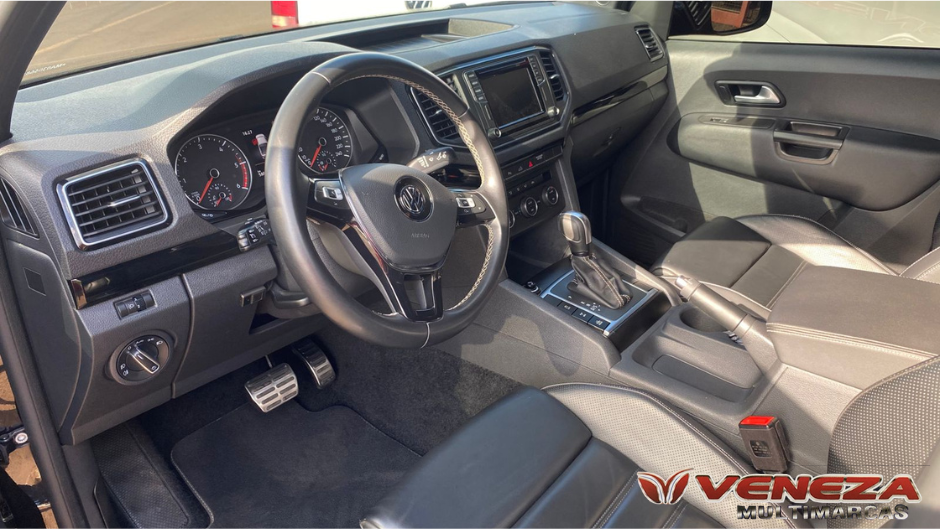
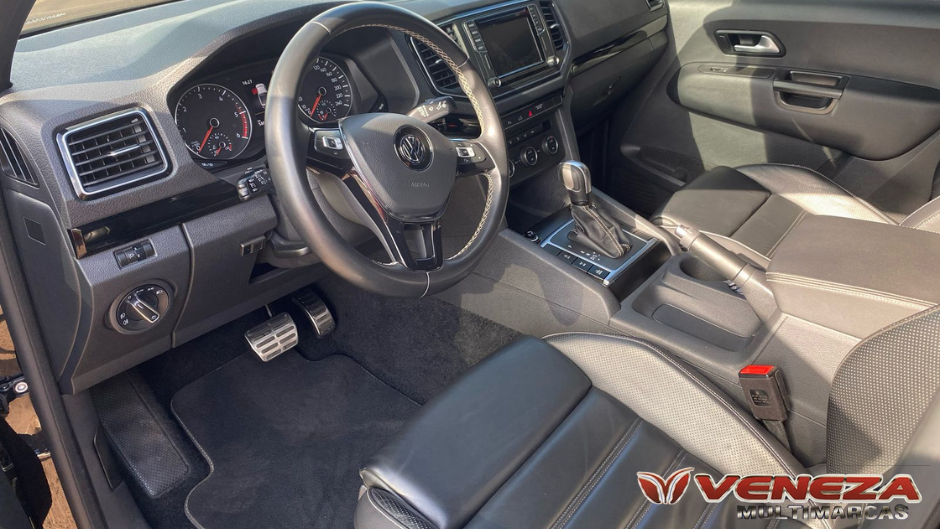
ngga

diff --git a/index.html b/index.html
@@ -24,14 +24,87 @@
 
   </div>
     <div class="container">
-        <a href="Jeep Renegade.html">
-        <div class="product-card">   
-            <img src="carros/Jeep renegade Ed.png" alt="Jeep" class="product-img">
-            <h2 class="product-title">Renegade</h2>
-            <h2 class="Ano">2016</h2>
-            <p class="product-price">Preço: R$70.000,00</p>
-        </div>
-        </a>
+
+
+
+
+
+
+
+
+
+
+
+
+
+
+
+
+
+
+
+
+
+
+
+
+
+
+
+
+
+
+        
+        <a href="Amarok Extreme.html">
+            <div class="product-card">
+                <img src="carros/Amarok Extreme Ed.png" alt="Jetta" class="product-img">
+                <h2 class="product-title">Amarok</h2>
+                <h2 class="Ano"></h2>
+                <p class="product-price">Preço: R$.000,00</p>
+                
+            </div>
+            </a><a href="Compass.html">
+                <div class="product-card">
+                    <img src="carros/Jeep Compass Ed.png" alt="Jetta" class="product-img">
+                    <h2 class="product-title">Compass</h2>
+                    <h2 class="Ano"></h2>
+                    <p class="product-price">Preço: R$.000,00</p>
+                    
+                </div>
+                </a>
+
+
+
+
+
+
+
+
+
+
+
+
+
+
+
+
+
+
+
+
+
+
+
+
+
+
+
+
+
+
+
+
+
         <a href="Jetta.html">
         <div class="product-card">
             <img src="carros/Jetta Ed.png" alt="Jetta" class="product-img">
@@ -205,13 +278,6 @@
             
         </div>
     </a>
-
-
-
-
-
-
-
     <a href="PalioC.html">
         <div class="product-card">
             <img src="carros/Palio P Ed.png" alt="Palio Cinza" class="product-img">
@@ -266,25 +332,6 @@
             
         </div>
     </a>
-
-
-
-
-
-
-
-
-
-
-
-
-
-
-
-
-
-
-
     <a href="S10 LT.html">
         <div class="product-card">
             <img src="carros/S10 Prata Ed.png" alt="S10 prata" class="product-img">
@@ -358,6 +405,14 @@
             
         </div>
     </a>
+    <a href="">
+        <div class="vendido">   
+            <img src="carros/Jeep renegade Ed.png" alt="Jeep" class="product-img">
+            <h2 class="product-title">Renegade</h2>
+            <h2 class="Ano">2016</h2>
+            <p class="product-price">Vendido</p>
+        </div>
+        </a>
  </div>
 
 </body>
